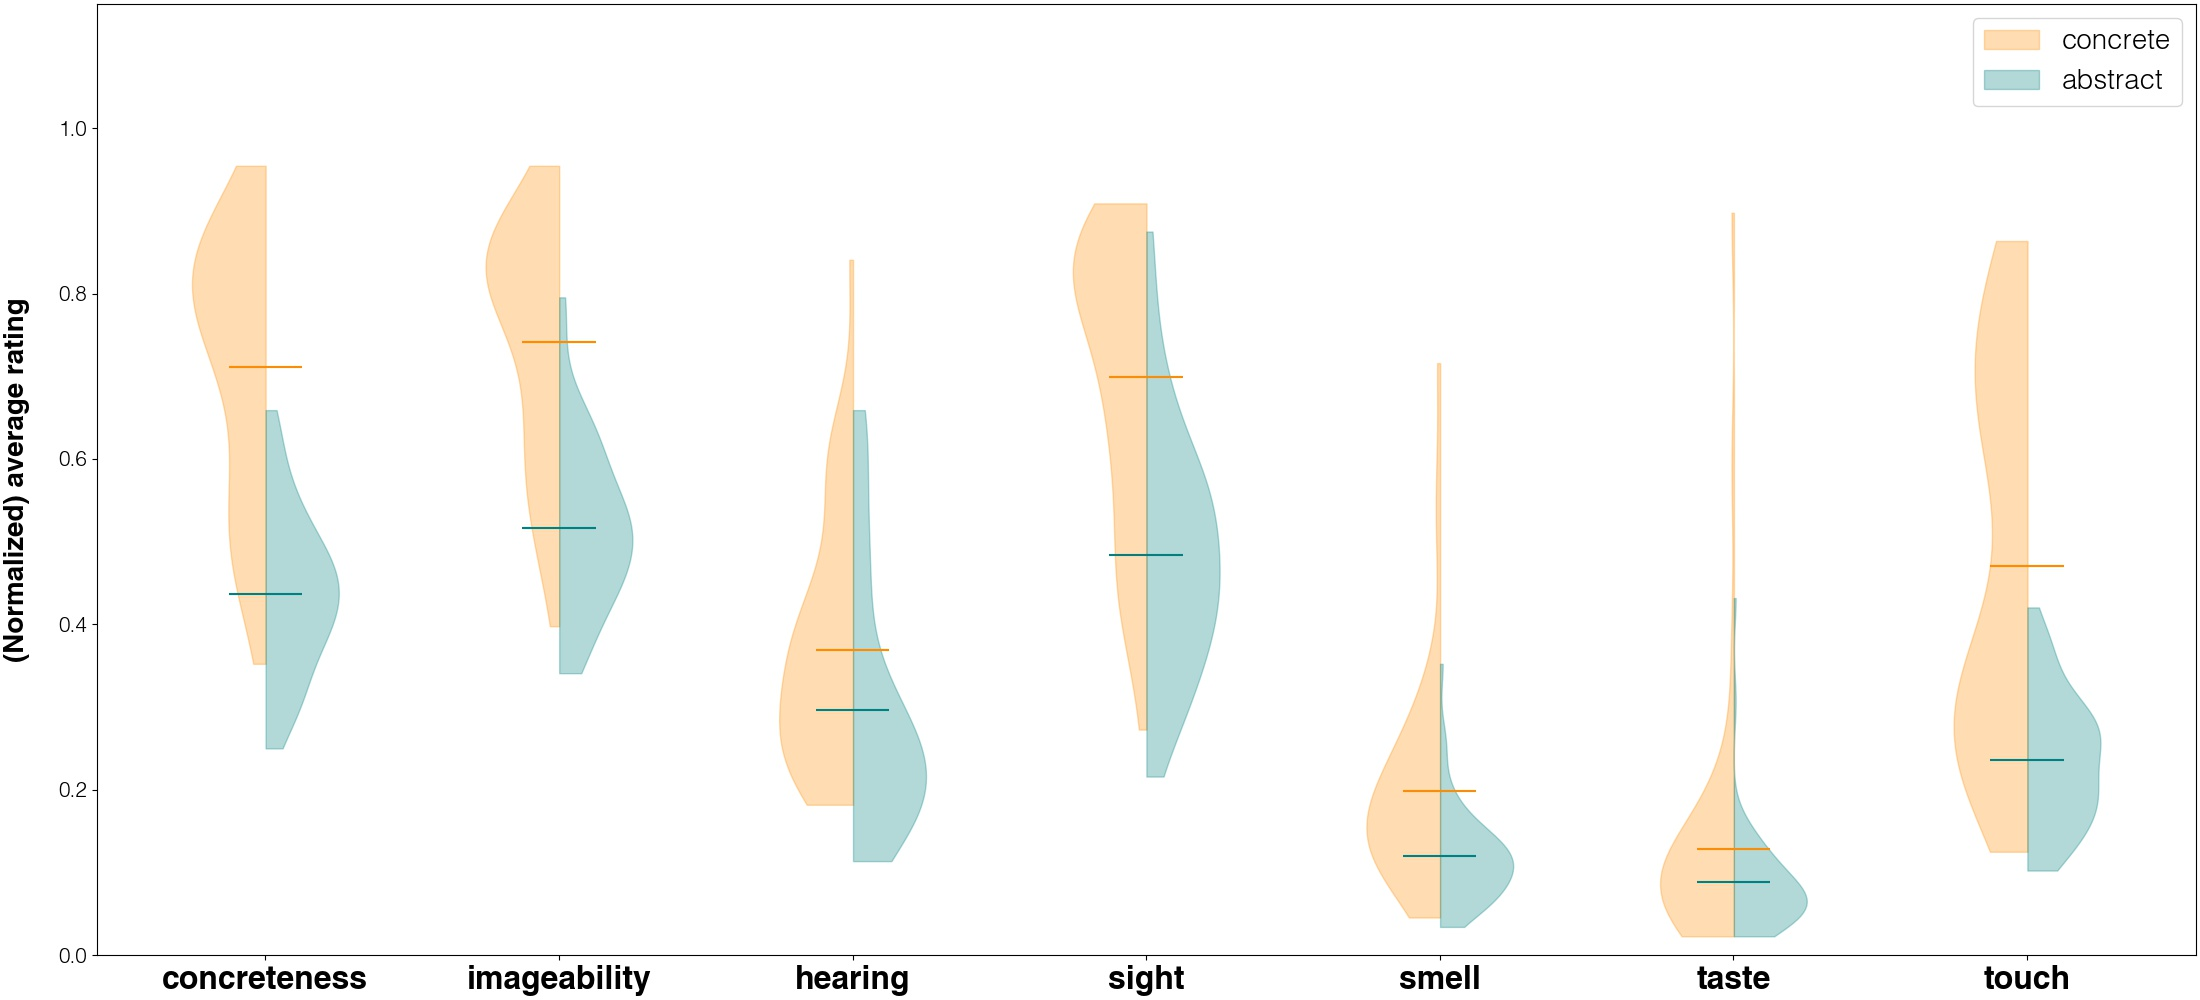
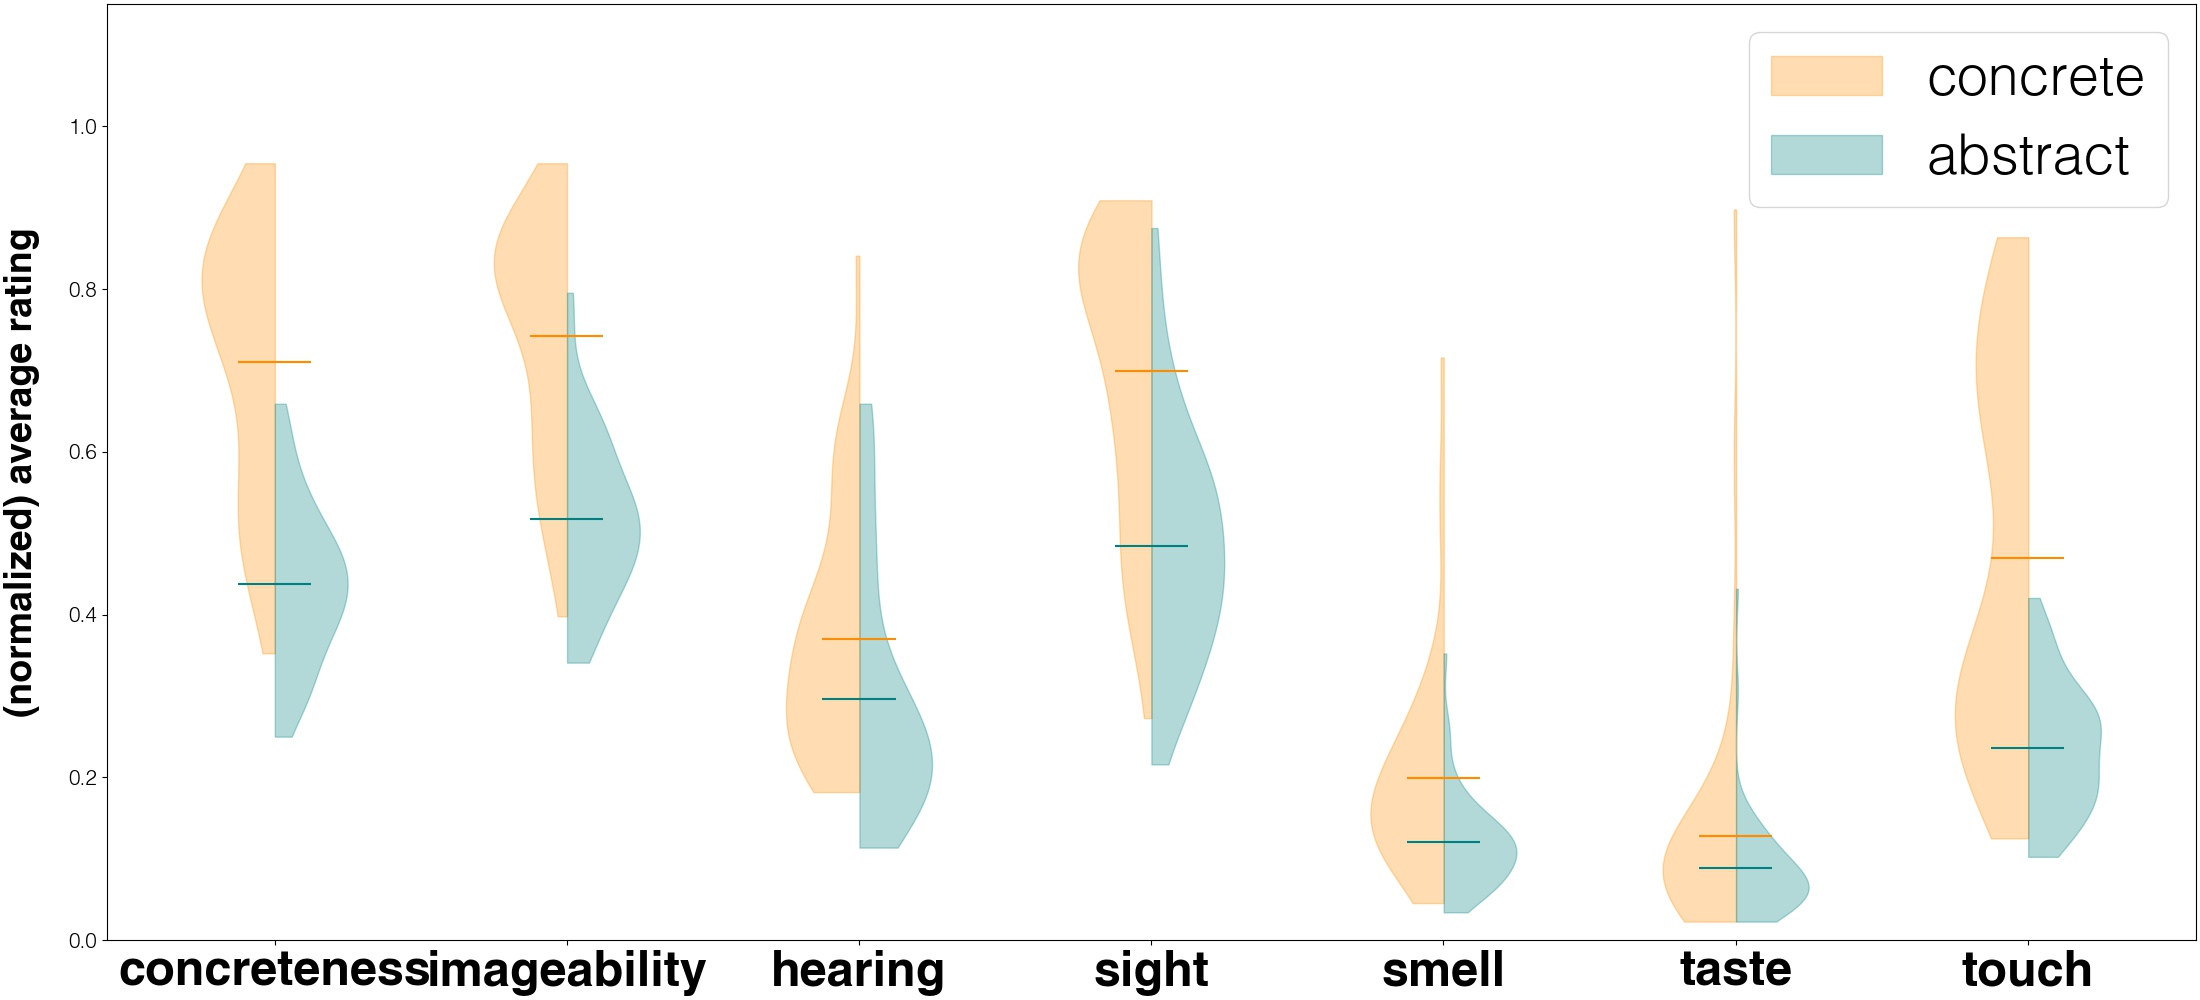
b

diff --git a/04_validate_list_phrases.py b/04_validate_list_phrases.py
@@ -278,18 +278,18 @@ ax.set_ylim(bottom=0., top=1.15)
 ax.legend(
           [v1['bodies'][0], v2['bodies'][0]],
           ['concrete', 'abstract'],
-          fontsize=20
+          fontsize=40
           )
 ax.set_xticks(range(len(xs)))
 ax.set_xticklabels(
                     xs, 
-                    fontsize=23, 
+                    fontsize=35, 
                     fontweight='bold',
                     )
 pyplot.yticks(fontsize=15)
 ax.set_ylabel(
-              '(Normalized) average rating', 
-              fontsize=20, 
+              '(normalized) average rating', 
+              fontsize=27, 
               fontweight='bold',
               labelpad=20
               )
